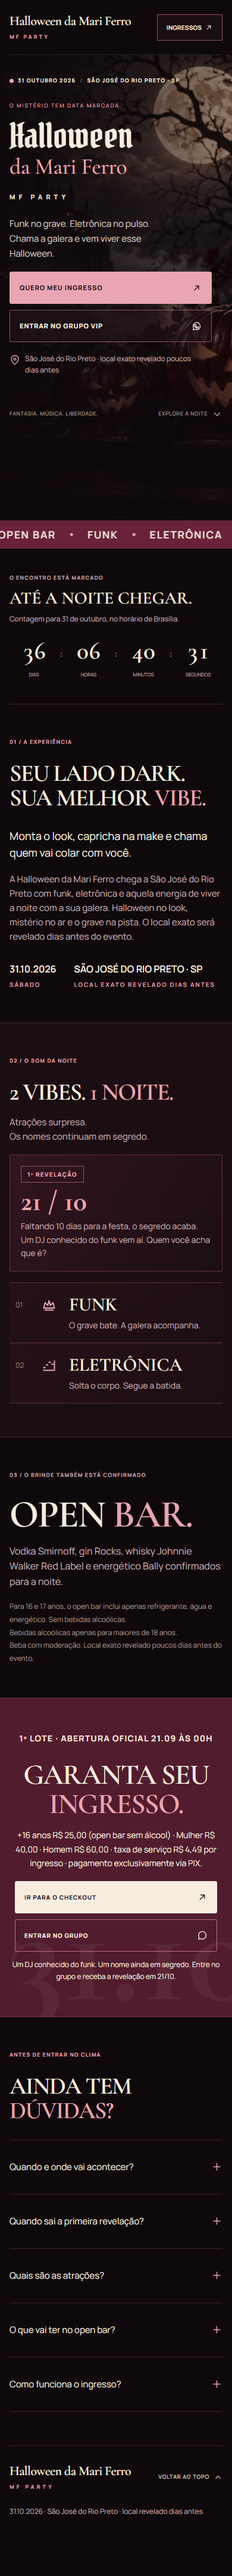
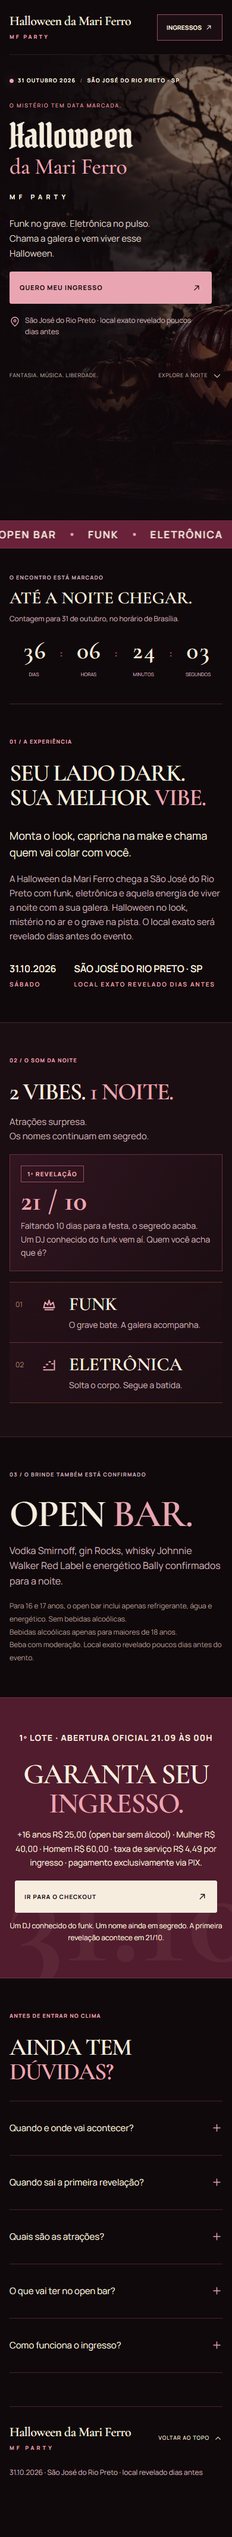
Remove links e chamadas para grupo VIP indisponivel

diff --git a/index.html b/index.html
@@ -75,11 +75,6 @@
           QUERO MEU INGRESSO
           <svg viewBox="0 0 24 24" aria-hidden="true"><path d="M7 17 17 7M9 7h8v8"/></svg>
         </a>
-
-        <a class="button button-ghost" href="https://chat.whatsapp.com/EKXw6wYavBT6IbPsCUcUyJ?s=cl&amp;p=i&amp;mlu=0&amp;ilr=4" data-whatsapp target="_blank" rel="noopener noreferrer">
-          ENTRAR NO GRUPO VIP
-          <svg viewBox="0 0 24 24" aria-hidden="true"><path d="M20.5 11.7a8.4 8.4 0 0 1-12.4 7.4L3.5 20.5l1.5-4.4A8.4 8.4 0 1 1 20.5 11.7Z"/><path d="M8.3 7.9c.2-.4.4-.4.7-.4h.5c.2 0 .4.1.5.4l.8 1.9c.1.3.1.5-.1.7l-.7.8c-.1.1-.2.3-.1.5.5 1 1.3 1.8 2.3 2.4.2.1.4.1.5-.1l.9-1c.2-.2.4-.2.7-.1l1.8.9c.3.1.4.3.4.5 0 .5-.2 1.3-.6 1.7-.5.5-1.2.8-2 .8-1.2 0-2.8-.6-4.5-2.1-2.1-1.8-3.3-4.2-3.3-5.7 0-.6.2-1 .4-1.2Z"/></svg>
-        </a>
       </div>
 
       <p class="location">
@@ -196,7 +191,7 @@
     </div>
   </section>
 
-<section class="join section" id="grupo">
+<section class="join section" id="ingressos">
     <div class="wrap">
       <p class="eyebrow">1º LOTE · ABERTURA OFICIAL 21.09 ÀS 00H</p>
       <h2>GARANTA SEU<br><em>INGRESSO.</em></h2>
@@ -207,14 +202,9 @@
           IR PARA O CHECKOUT
           <svg viewBox="0 0 24 24" aria-hidden="true"><path d="M7 17 17 7M9 7h8v8"/></svg>
         </a>
-
-        <a class="button button-ghost-dark" href="https://chat.whatsapp.com/EKXw6wYavBT6IbPsCUcUyJ?s=cl&amp;p=i&amp;mlu=0&amp;ilr=4" data-whatsapp target="_blank" rel="noopener noreferrer">
-          ENTRAR NO GRUPO
-          <svg viewBox="0 0 24 24" aria-hidden="true"><path d="M20.5 11.7a8.4 8.4 0 0 1-12.4 7.4L3.5 20.5l1.5-4.4A8.4 8.4 0 1 1 20.5 11.7Z"/></svg>
-        </a>
       </div>
 
-      <p class="join-note" id="group-status">Um DJ conhecido do funk. Um nome ainda em segredo. Entre no grupo e receba a revelação em 21/10.</p>
+      <p class="join-note" id="reveal-note">Um DJ conhecido do funk. Um nome ainda em segredo. A primeira revelação acontece em 21/10.</p>
     </div>
   </section>
 
@@ -232,7 +222,7 @@
 
       <details>
         <summary>Quando sai a primeira revelação?<svg viewBox="0 0 24 24" aria-hidden="true"><path d="M12 5v14M5 12h14"/></svg></summary>
-        <p>No dia 21/10, 10 dias antes da festa. A primeira pista: é um DJ conhecido do funk. O nome? Por enquanto, é segredo. Quem estiver no grupo recebe primeiro.</p>
+        <p>No dia 21/10, 10 dias antes da festa. A primeira pista: é um DJ conhecido do funk. O nome? Por enquanto, é segredo. A revelação acontece em 21/10.</p>
       </details>
 
       <details>
@@ -267,10 +257,6 @@
 </footer>
 
 <div class="mobile-cta-bar" id="mobileActions" aria-label="Ações rápidas">
-  <a class="mobile-cta mobile-cta--ghost" href="https://chat.whatsapp.com/EKXw6wYavBT6IbPsCUcUyJ?s=cl&amp;p=i&amp;mlu=0&amp;ilr=4" data-whatsapp target="_blank" rel="noopener noreferrer">
-    <svg viewBox="0 0 24 24" aria-hidden="true"><path d="M20.5 11.7a8.4 8.4 0 0 1-12.4 7.4L3.5 20.5l1.5-4.4A8.4 8.4 0 1 1 20.5 11.7Z"/></svg>
-    GRUPO
-  </a>
   <a class="mobile-cta" href="checkout.html">
     <svg viewBox="0 0 24 24" aria-hidden="true"><path d="M7 17 17 7M9 7h8v8"/></svg>
     INGRESSO

diff --git a/js/script.js b/js/script.js
@@ -1,7 +1,6 @@
 (() => {
   "use strict";
 
-  const config = window.HALLOWEEN_CONFIG || {};
   const eventDay = new Date("2026-10-31T00:00:00-03:00").getTime();
 
   function updateCountdown() {
@@ -26,9 +25,6 @@
     }
   }
 
-  document.querySelectorAll("[data-whatsapp]").forEach(link => {
-    link.href = config.whatsappGroupUrl || "#";
-  });
 
   const details = [...document.querySelectorAll(".questions details")];
   details.forEach(detail => {
@@ -41,10 +37,10 @@
   });
 
 
-  // Mostrar CTA compacto somente após o hero, sem cobrir os dois botões iniciais.
+  // Mostrar CTA compacto somente após o hero, sem cobrir o botão inicial.
   const quickActions = document.getElementById("mobileActions");
   const hero = document.getElementById("inicio");
-  const join = document.getElementById("grupo");
+  const join = document.getElementById("ingressos");
   if (quickActions && hero) {
     const updateActions = () => {
       const heroBottom = hero.getBoundingClientRect().bottom;

diff --git a/js/checkout.js b/js/checkout.js
@@ -445,10 +445,7 @@
   });
   window.addEventListener("online",()=>{if(state.activePayment)queuePoll(3);});
   window.addEventListener("offline",()=>{clearTimeout(state.pollTimer);statusHint.textContent="Sem conexão. O PIX continua válido; a consulta voltará ao reconectar.";});
-
-  document.querySelectorAll("[data-whatsapp]").forEach(link => {
-    link.href = config.whatsappGroupUrl || "#";
-  });
+
 
   updateSummary();
   try { const draft=JSON.parse(sessionStorage.getItem("hp10_payment_draft")||"null"); if(draft?.requestId&&draft?.fingerprint){state.requestId=draft.requestId;state.requestFingerprint=draft.fingerprint;} } catch {}

diff --git a/css/mari-ferro.css b/css/mari-ferro.css
@@ -42,3 +42,6 @@ a:focus-visible,button:focus-visible,input:focus-visible,summary:focus-visible{o
  h2{font-size:40px}.bar h2{font-size:64px}.join h2{font-size:48px}.genres h3{font-size:31px}
  .brand{font-size:22px;max-width:220px}.brand>span{font-size:9px}
 }
+
+/* Barra móvel com acesso único aos ingressos. */
+.mobile-cta-bar{grid-template-columns:minmax(0,1fr)}

diff --git a/js/config.js b/js/config.js
@@ -1,5 +1,4 @@
 window.HALLOWEEN_CONFIG = {
-  whatsappGroupUrl: "https://chat.whatsapp.com/EKXw6wYavBT6IbPsCUcUyJ?s=cl&p=i&mlu=0&ilr=4",
   whatsappServiceNumber: "5512988859882",
   serviceFeePerTicket: 4.49,
   timezone: "America/Sao_Paulo"
